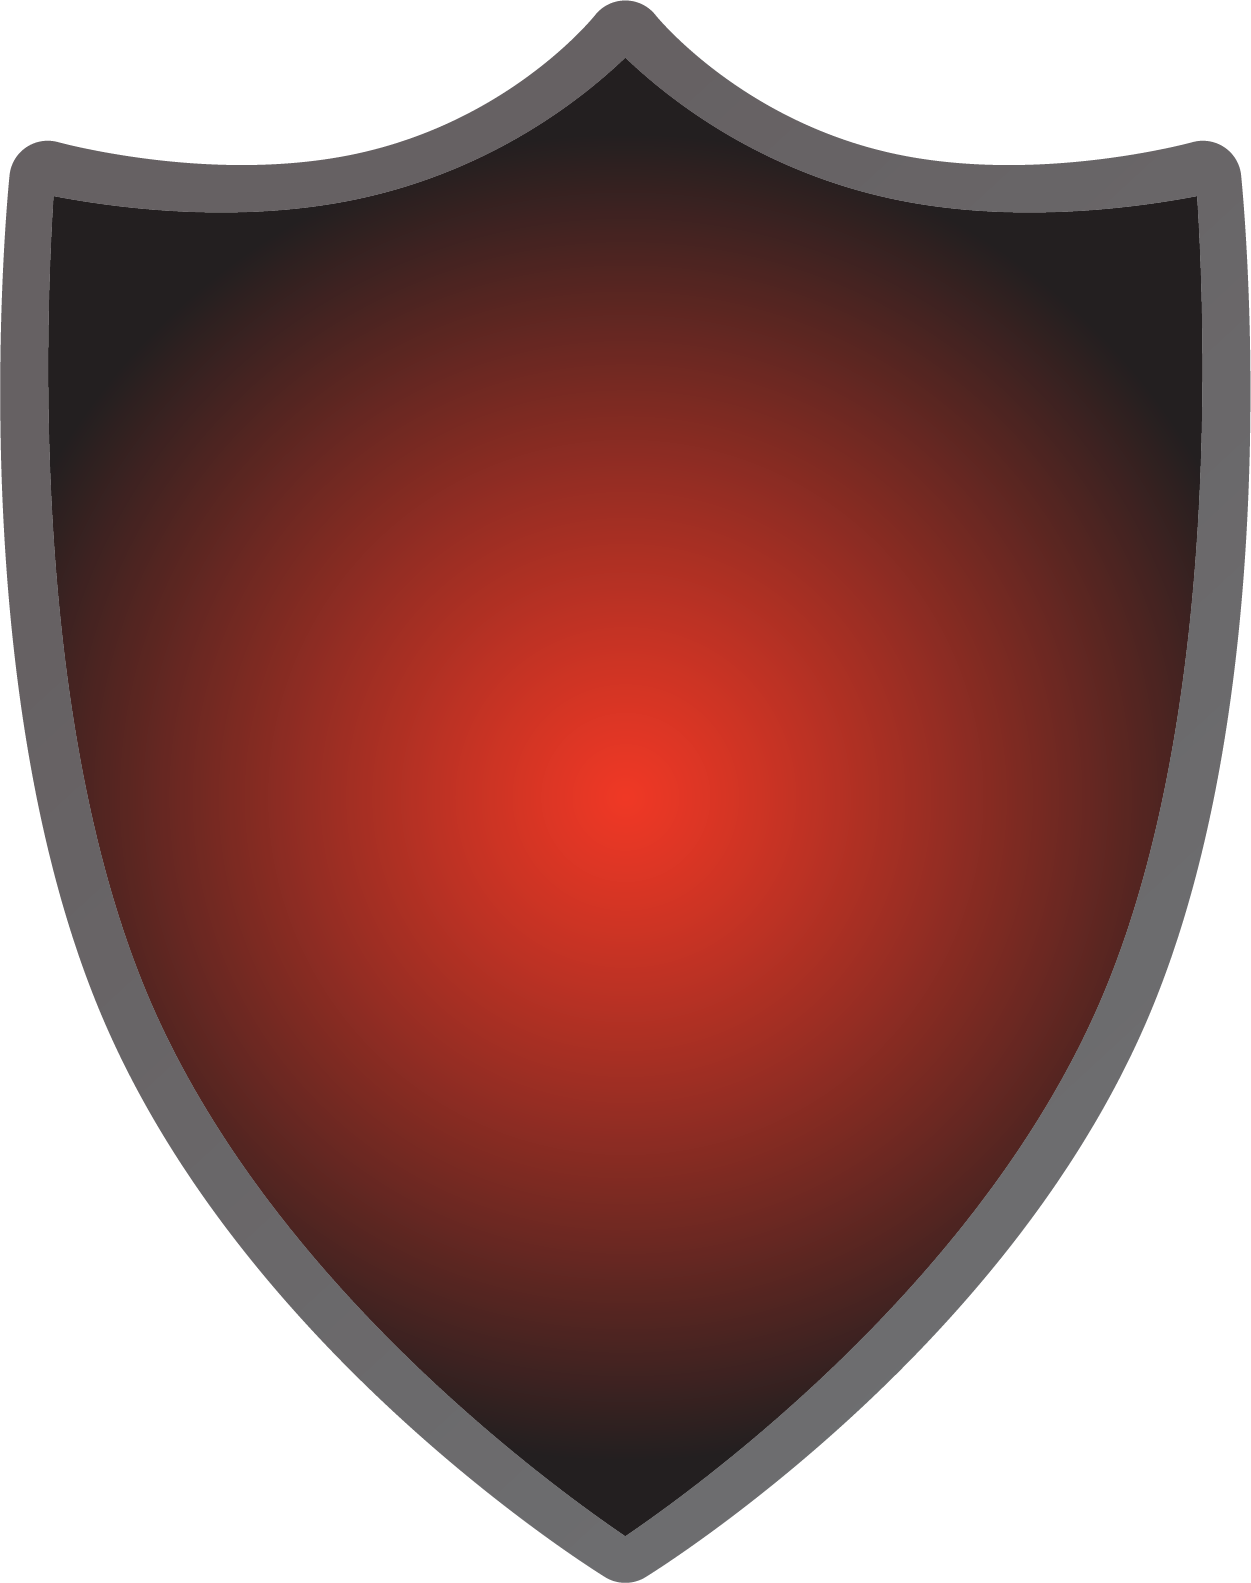
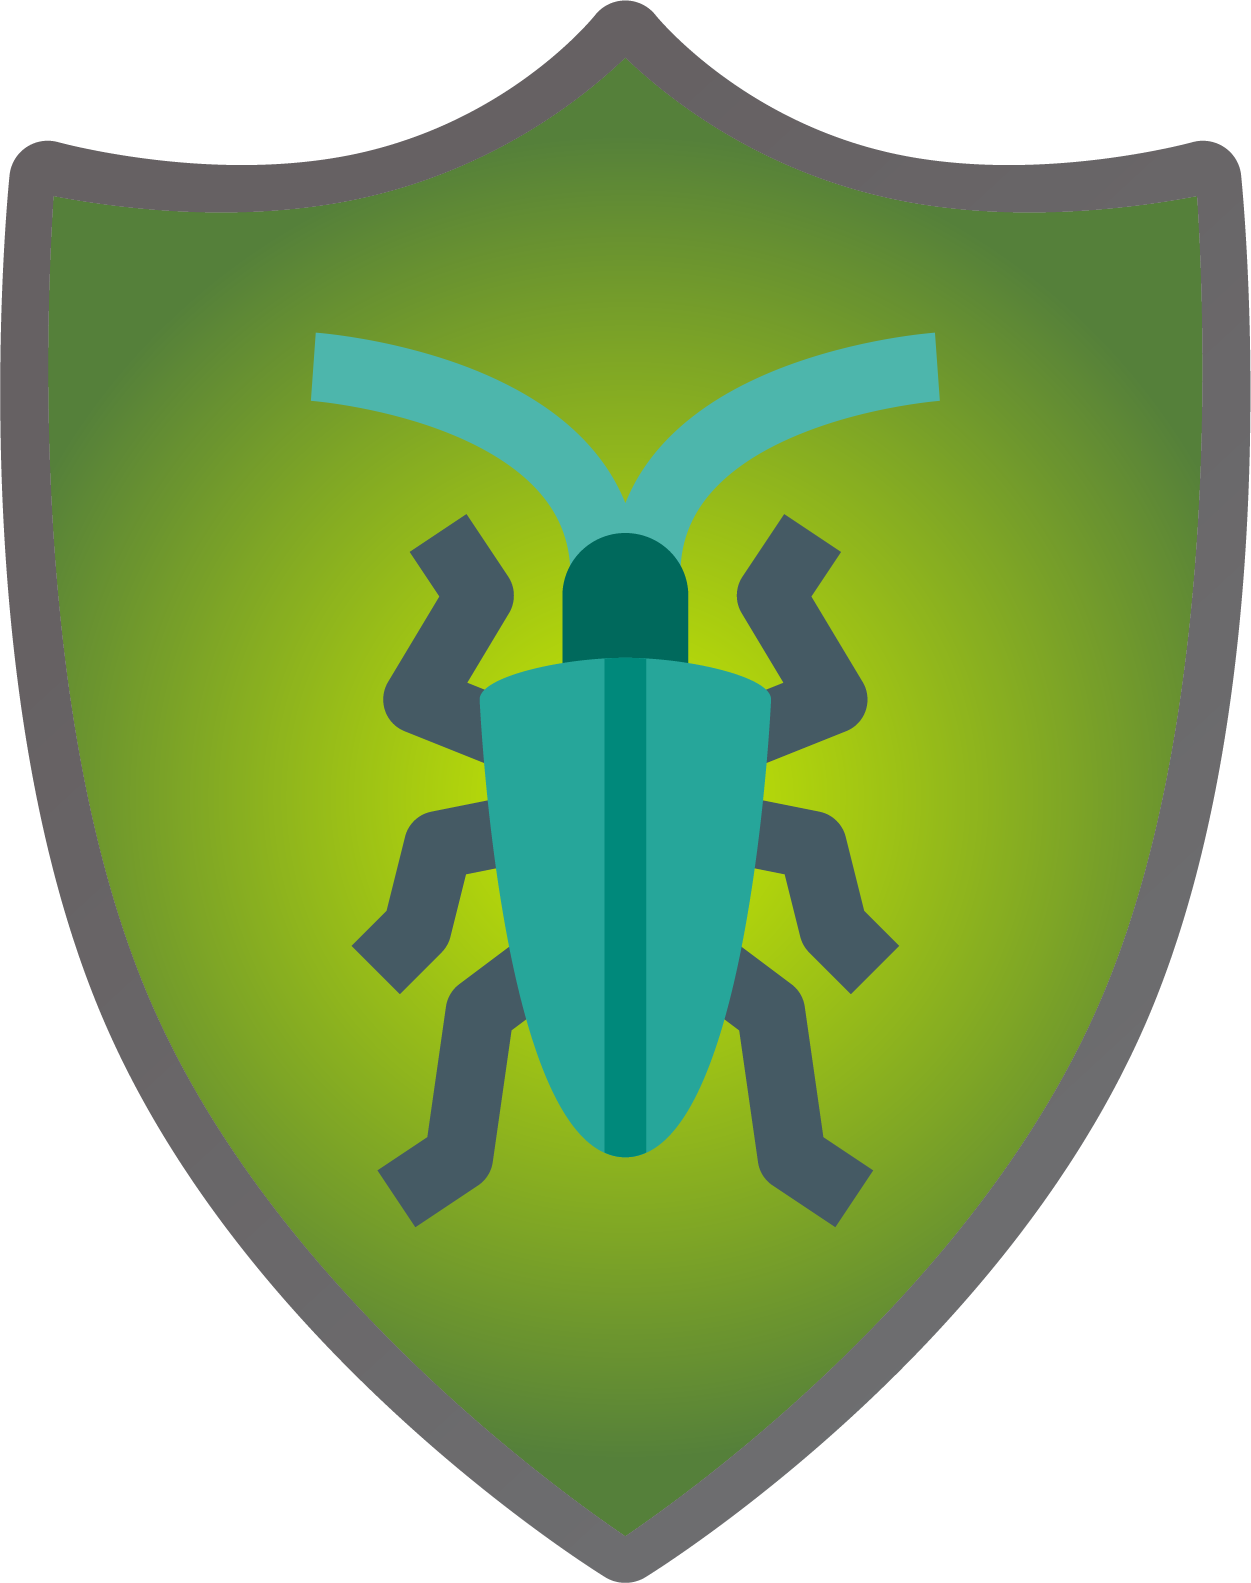
Feature/gamepatch 2 (#116)
* fix: :bug: Adjust threshold for unrealistic game metrics

* feat: :sparkles: Add shop tooltip for event participation details

* feat: :sparkles: Update badge images and add new vm badge

* style: :art: Improve formatting of pull request template headings

* feat: :sparkles: Update computer badge image

* feat: :sparkles: Implement namechange management

* feat: :sparkles: Enhance user management form with improved layout and toast notifications

* feat: :sparkles: Update shop items with new badges and adjust pricing

diff --git a/frontend/app/(protected)/(admin)/gamemaster/manage/_components/ManageUserForm.tsx b/frontend/app/(protected)/(admin)/gamemaster/manage/_components/ManageUserForm.tsx
@@ -1,0 +1,108 @@
+"use client";
+import {
+  adminUpdateUser,
+  updateRole,
+} from "@/data/admin/adminUserInteractions";
+import {
+  TextField,
+  Button,
+  FormControl,
+  InputLabel,
+  MenuItem,
+  Select,
+} from "@mui/material";
+import { UserRole } from "@prisma/client";
+import { useRouter } from "next/navigation";
+import { useState } from "react";
+import { toast } from "react-toastify";
+
+function ManageUserForm(user: {
+  special: string[];
+  id: string;
+  name: string | null;
+  username: string | null;
+  lastname: string | null;
+  role: UserRole;
+}) {
+  const [special, setSpecial] = useState<string[]>(user.special);
+  const [role, setRole] = useState<UserRole>(user.role);
+  const [name, setName] = useState<string | null>(user.name);
+  const [username, setUsername] = useState<string | null>(user.username);
+  const [lastname, setLastname] = useState<string | null>(user.lastname);
+
+  const router = useRouter();
+
+  return (
+    <>
+      <TextField
+        variant="standard"
+        label="Name"
+        value={name}
+        onChange={(e) => setName(e.target.value)}
+      />
+      <TextField
+        variant="standard"
+        label="Username"
+        sx={{ marginX: 1 }}
+        value={username}
+        onChange={(e) => setUsername(e.target.value)}
+      />
+      <TextField
+        variant="standard"
+        label="Lastname"
+        value={lastname}
+        onChange={(e) => setLastname(e.target.value)}
+      />
+      <TextField
+        variant="outlined"
+        label="Special"
+        sx={{ marginLeft: 2 }}
+        value={special.join(" ")}
+        onChange={(e) => setSpecial(e.target.value.split(" "))}
+      />
+      <FormControl sx={{ marginX: 1, minWidth: 80 }}>
+        <InputLabel>Role</InputLabel>
+        <Select
+          id="role"
+          value={role}
+          onChange={(value) => {
+            setRole(value.target.value as UserRole);
+          }}
+          sx={{ width: 120 }}
+          label="Role"
+        >
+          <MenuItem value={"ADMIN"}>ADMIN</MenuItem>
+          <MenuItem value={"USER"}>USER</MenuItem>
+          <MenuItem value={"NEW"}>NEW</MenuItem>
+        </Select>
+      </FormControl>
+      <Button
+        variant="contained"
+        color="primary"
+        onClick={() => {
+          // Check if any of the values have changed
+          if (
+            name !== user.name ||
+            username !== user.username ||
+            lastname !== user.lastname
+          ) {
+            adminUpdateUser(user.id, special, name, username, lastname);
+            toast.success("User updated");
+          } else {
+            adminUpdateUser(user.id, special);
+            toast.success("User updated");
+          }
+          if (role !== user.role) {
+            updateRole(user.id, role);
+            toast.success("User role updated");
+          }
+          router.refresh();
+        }}
+      >
+        Update
+      </Button>
+    </>
+  );
+}
+
+export default ManageUserForm;

diff --git a/frontend/app/(protected)/(admin)/gamemaster/manage/page.tsx b/frontend/app/(protected)/(admin)/gamemaster/manage/page.tsx
@@ -1,15 +1,25 @@
 import MainContainer from "@/components/MainContainer";
 import {
+  adminGetUserInfo,
   getSpecialStatuses,
-  getUsersSpecialStatus,
 } from "@/data/admin/adminUserInteractions";
-import { Typography } from "@mui/material";
+import { List, ListItem, Typography } from "@mui/material";
 import React from "react";
-import UserSpecialStatus from "./_components/UserSpecialStatus";
+import ManageUserForm from "./_components/ManageUserForm";
 
 async function Manage() {
-  const userSpecialStatus = await getUsersSpecialStatus();
+  const userInfo = await adminGetUserInfo();
   const specialStatues = await getSpecialStatuses();
+
+  const style = {
+    p: 0,
+    width: "90%",
+    maxWidth: 1200,
+    borderRadius: 2,
+    border: "1px solid",
+    borderColor: "divider",
+    backgroundColor: "background.paper",
+  };
 
   return (
     <MainContainer>
@@ -22,18 +32,22 @@ async function Manage() {
       <Typography variant="body1" align="center">
         OPTIONS: {specialStatues?.map((status) => status.specialReq).join(", ")}
       </Typography>
-      {userSpecialStatus?.map((user) => (
-        <div key={user.username} className="flex justify-center mt-2">
-          <UserSpecialStatus
-            name={user.name}
-            id={user.id}
-            role={user.role}
-            special={user.special}
-            username={user.username}
-            lastname={user.lastname}
-          />
-        </div>
-      ))}
+      <div className="flex justify-center mt-2">
+        <List sx={style}>
+          {userInfo?.map((user) => (
+            <ListItem key={user.username} sx={{ padding: 2 }}>
+              <ManageUserForm
+                name={user.name}
+                id={user.id}
+                role={user.role}
+                special={user.special}
+                username={user.username}
+                lastname={user.lastname}
+              />
+            </ListItem>
+          ))}
+        </List>
+      </div>
     </MainContainer>
   );
 }

diff --git a/frontend/data/admin/adminUserInteractions.ts b/frontend/data/admin/adminUserInteractions.ts
@@ -75,7 +75,7 @@ export const getAllDeadUsers = async () => {
   return deadUsers;
 };
 
-export const getUsersSpecialStatus = async () => {
+export const adminGetUserInfo = async () => {
   const session = await auth();
   if (session?.user.role !== "ADMIN") {
     return null;
@@ -90,6 +90,17 @@ export const getUsersSpecialStatus = async () => {
       special: true,
       role: true,
     },
+    orderBy: [
+      {
+        schoolClass: "desc",
+      },
+      {
+        name: "asc",
+      },
+      {
+        lastname: "asc",
+      },
+    ],
   });
   return users;
 };
@@ -112,9 +123,12 @@ export const getSpecialStatuses = async () => {
   return specialReqs;
 };
 
-export const updateUserSpecialStatus = async (
+export const adminUpdateUser = async (
   userId: string,
   special: string[],
+  name?: string | null,
+  username?: string | null,
+  lastname?: string | null,
 ) => {
   const session = await auth();
   if (session?.user.role !== "ADMIN") {
@@ -126,6 +140,9 @@ export const updateUserSpecialStatus = async (
       id: userId,
     },
     data: {
+      name,
+      username,
+      lastname,
       special,
     },
   });

diff --git a/frontend/app/(protected)/shop/page.tsx b/frontend/app/(protected)/shop/page.tsx
@@ -5,7 +5,8 @@ import { getAllShopItems } from "@/data/shop/items";
 import { getUserInventory } from "@/data/user/getUser";
 import { auth } from "@/auth";
 import { notFound } from "next/navigation";
-import { Circle } from "@mui/icons-material";
+import { Circle, HelpOutline } from "@mui/icons-material";
+import { Tooltip } from "@mui/material";
 
 async function Shop() {
   const session = await auth();
@@ -25,7 +26,16 @@ async function Shop() {
       <h1 className=" text-6xl text-center mt-5">Shop</h1>
       <h2 className="text-2xl text-center mt-5 text-green-400">
         Buy items to help you on your journey. Some items require participation
-        in certain IRL events.
+        in certain IRL events to unlock{" "}
+        <Tooltip
+          title={
+            "You have the following special statuses: " +
+            user.special.join(", ") +
+            ". Ask a gamemaster for more information."
+          }
+        >
+          <HelpOutline className="text-white cursor-help" />
+        </Tooltip>
       </h2>
       <h3 className="text-xl text-center mt-5">
         You have {user.gold} <Circle htmlColor="gold" /> gold

diff --git a/backend/db/shopItems.js b/backend/db/shopItems.js
@@ -327,7 +327,7 @@ const shopItems = [
   {
     name: "Installation Wizard",
     description: "Gain permanent access to a computer in the computer lab",
-    price: 40000,
+    price: 50000,
     type: "Badge",
     levelReq: 20,
     classReq: null,
@@ -406,6 +406,15 @@ const shopItems = [
     specialReq: "alpha",
   },
   {
+    name: "Beta Tester",
+    description: "Tested TillerQuest while it was in beta development",
+    price: 0,
+    type: "Badge",
+    levelReq: null,
+    classReq: null,
+    specialReq: "beta",
+  },
+  {
     name: "Game Master",
     description: "Available to all GMs",
     price: 2147483647, // The maximum value for a 32-bit signed integer
@@ -413,6 +422,15 @@ const shopItems = [
     levelReq: null,
     classReq: null,
     specialReq: "gm",
+  },
+  {
+    name: "Developer",
+    description: "Helped with the development of TillerQuest",
+    price: 0,
+    type: "Badge",
+    levelReq: null,
+    classReq: null,
+    specialReq: "dev",
   },
 ];
 

diff --git a/frontend/data/games/game.ts b/frontend/data/games/game.ts
@@ -103,7 +103,8 @@ export const updateGame = async (
     cpm = cpm < 0 || !cpm || cpm == Infinity ? 0 : Math.floor(cpm);
 
     // unrealistic values cancel the game
-    if (charIndex > 800 || wpm > 120) {
+    // TODO: consider checking for unrealistic mistakes to invalidate game
+    if (charIndex > 800 || wpm > 135) {
       await db.game.delete({
         where: { id: gameId, status: "INPROGRESS" },
       });
@@ -111,7 +112,7 @@ export const updateGame = async (
     }
 
     const mistakePenalty = 1 - mistakes / (charIndex + 1);
-    const score = Math.floor(cpm * 2 * mistakePenalty + charIndex);
+    const score = Math.floor(cpm * 2 * mistakePenalty);
     const totalCharacters = charIndex;
 
     const metadata = {

diff --git a/.github/pull_request_template.md b/.github/pull_request_template.md
@@ -1,35 +1,36 @@
-# What kind of change does this PR introduce? (Bug fix, feature, docs update, ...)
+## What kind of change does this PR introduce? (Bug fix, feature, docs update, ...)
+
 <!--
 - Describe the changes here.
 -->
 
+## What is the current behavior? (You can also link to an open issue here)
 
-# What is the current behavior? (You can also link to an open issue here)
 <!--
-- Describe the current behavior here.  
+- Describe the current behavior here.
 -->
 
+## What is the new behavior? (If this is a feature change)
 
-# What is the new behavior? (If this is a feature change)
 <!--
-- Describe the new feature here.  
+- Describe the new feature here.
 -->
 
+## Test Cases
 
-# Test Cases
 <!--
 - [ ] Detail the test cases you used.
 - [ ] Make use of checkboxes to help the developers who is doing the testing keep track of their progress
 -->
 
+## Does this PR introduce a breaking change?
 
-# Does this PR introduce a breaking change? 
 <!--
 - What changes might users need to make in their application due to this PR?
 -->
 
+## Additional Information
 
-# Additional Information
 <!--
-- Describe the additional changes/steps you took, for example the SQL commands used for adding a column in database table.   
+- Describe the additional changes/steps you took, for example the SQL commands used for adding a column in database table.
 -->
